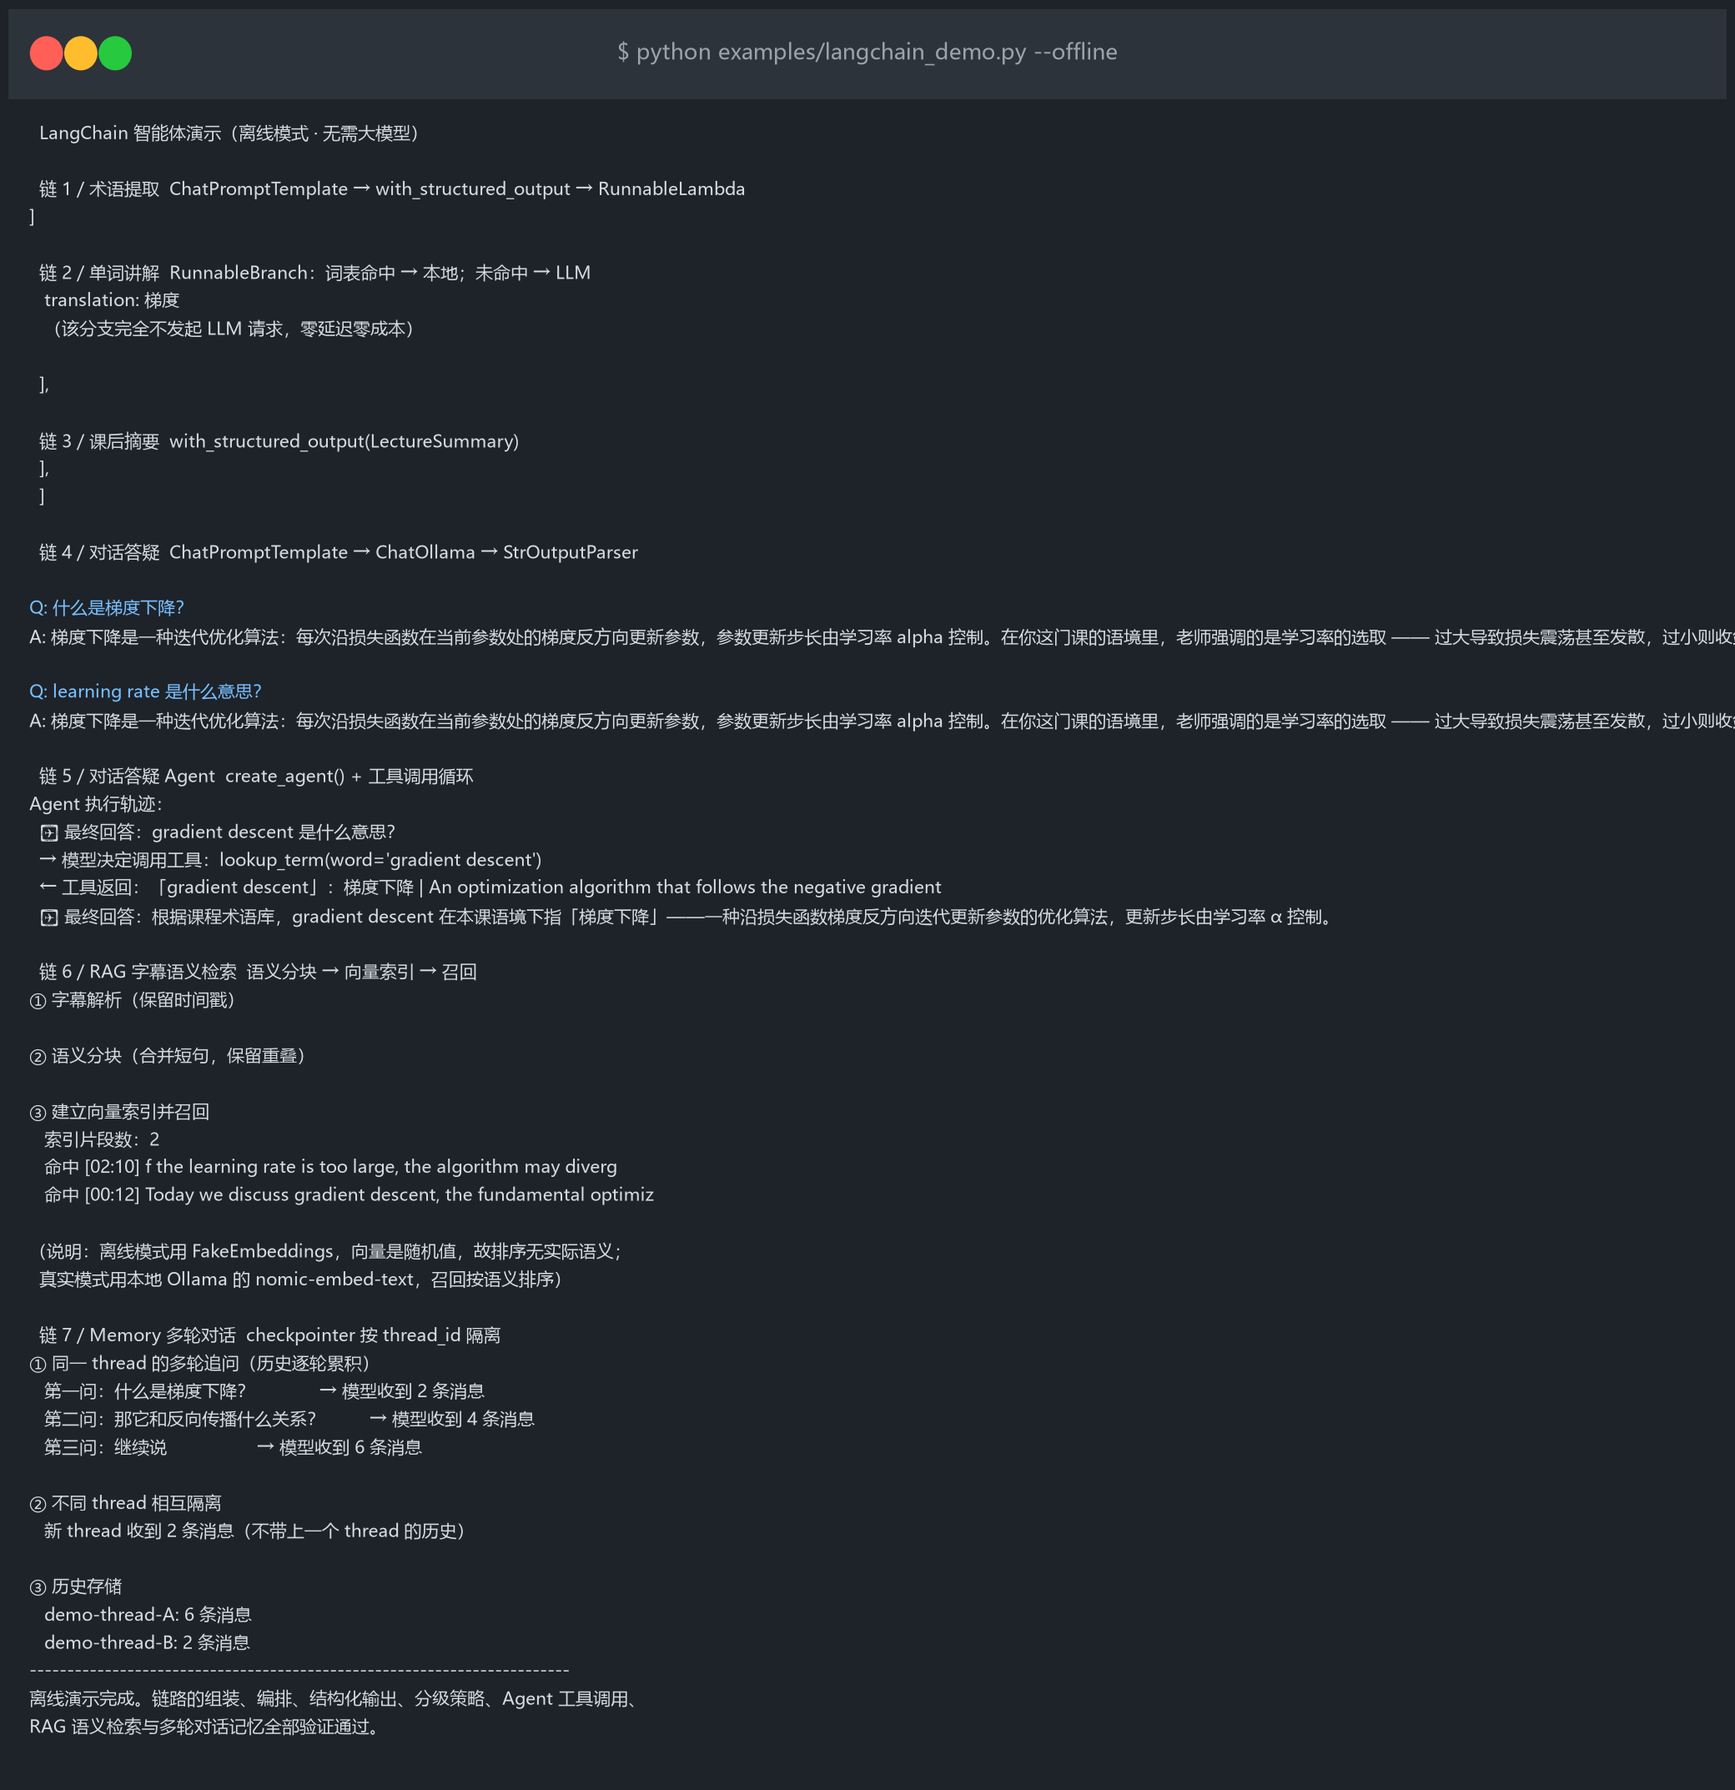
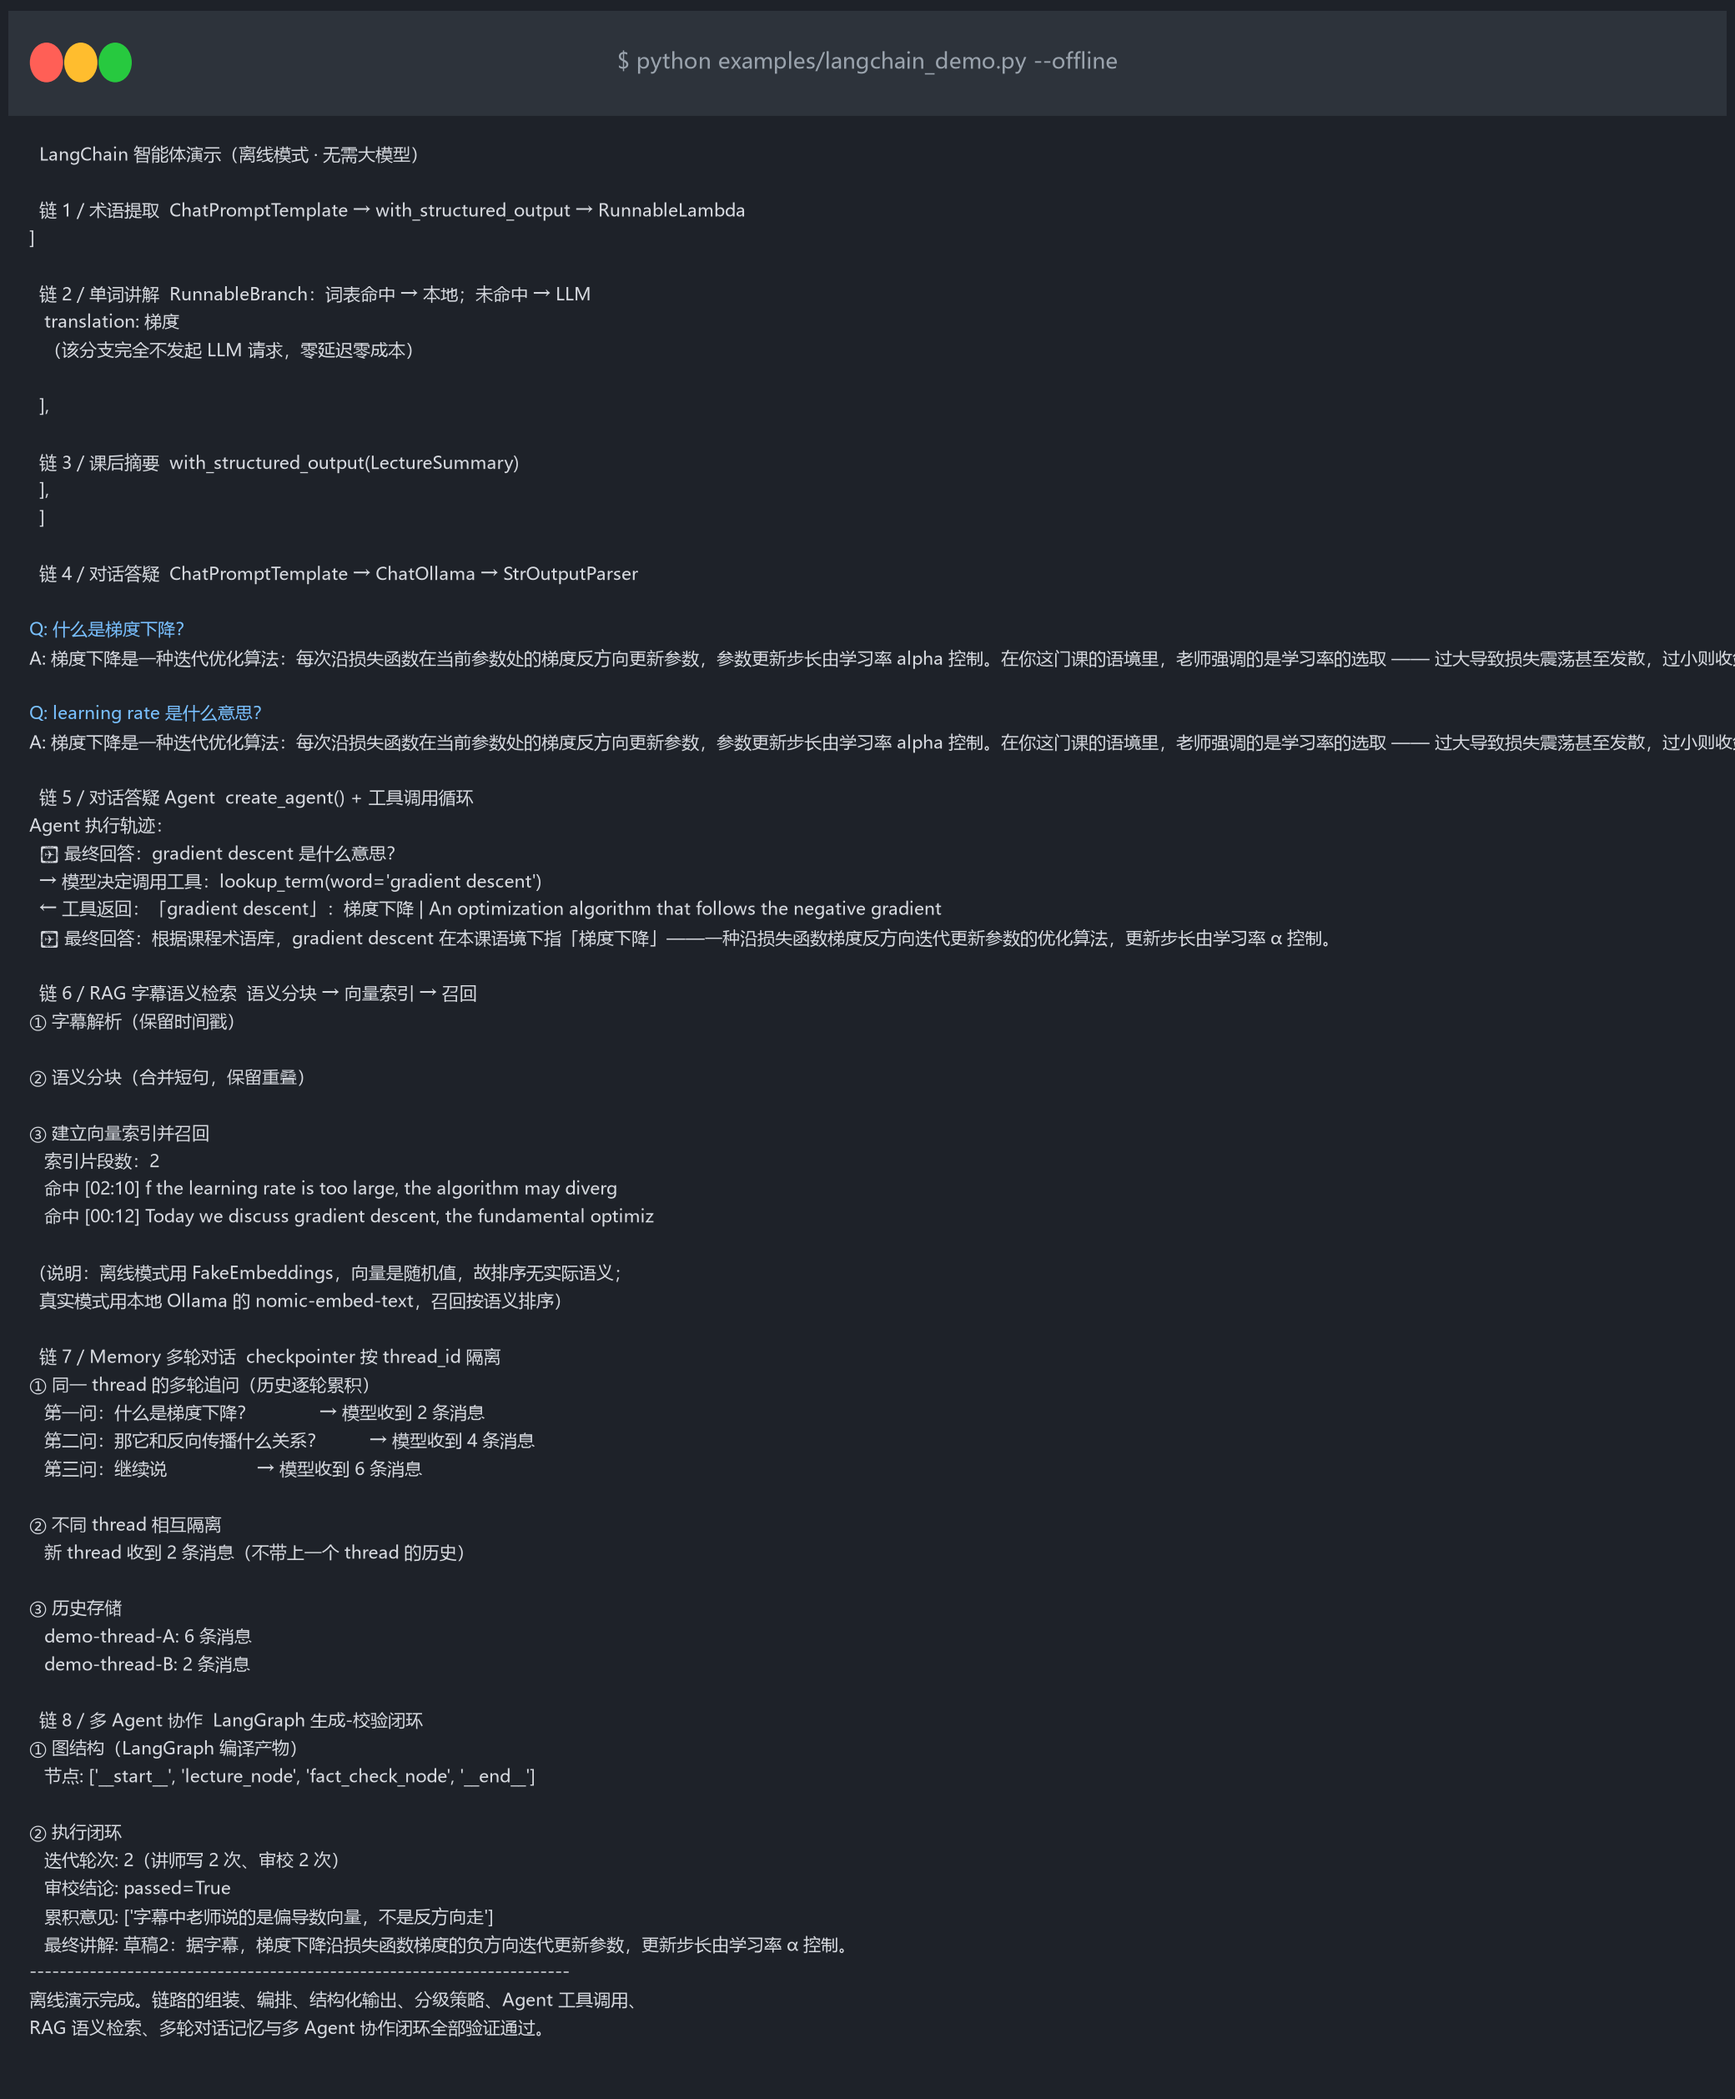
docs: 补多 Agent 协作章节、工作流图、链 8 演示与更新后的验证数据

diff --git a/examples/langchain_demo.py b/examples/langchain_demo.py
@@ -100,6 +100,71 @@ def _demo_rag() -> None:
     print("  真实模式用本地 Ollama 的 nomic-embed-text，召回按语义排序）")
 
 
+
+def _demo_workflow() -> None:
+    """演示多 Agent 协作：讲师生成 → 审校核对 → 不通过则退回重写"""
+    import json
+
+    from langchain_core.language_models.fake_chat_models import FakeListChatModel
+    from langchain_core.messages import AIMessage
+    from langchain_core.outputs import ChatGeneration, ChatResult
+
+    import llm.chains.base as base
+    from llm.chains.workflow import build_review_loop
+
+    # 脚本：讲师写一版 → 审校不通过 → 讲师重写 → 审校通过
+    answers = [
+        "草稿1：梯度下降就是让参数往梯度反方向走。",
+        json.dumps(
+            {"passed": False, "reason": "与字幕不符", "issues": ["字幕中老师说的是偏导数向量，不是反方向走"]},
+            ensure_ascii=False,
+        ),
+        "草稿2：据字幕，梯度下降沿损失函数梯度的负方向迭代更新参数，更新步长由学习率 α 控制。",
+        json.dumps({"passed": True, "reason": "与字幕一致", "issues": []}, ensure_ascii=False),
+    ]
+
+    class Scripted(FakeListChatModel):
+        def bind_tools(self, tools, **kwargs):
+            return self
+
+        def _call(self, *a, **k):
+            return "x"
+
+        def _generate(self, *a, **k):
+            text = answers.pop(0) if answers else "备用"
+            return ChatResult(generations=[ChatGeneration(message=AIMessage(content=text))])
+
+    _orig = base.get_chat_model
+    base.get_chat_model = lambda **kw: Scripted(responses=["x"])
+    try:
+        graph = build_review_loop(max_iterations=3)
+
+        print("① 图结构（LangGraph 编译产物）")
+        nodes = list(graph.get_graph().nodes.keys())
+        print(f"   节点: {nodes}")
+
+        print("\n② 执行闭环")
+        out = graph.invoke(
+            {
+                "word": "gradient descent",
+                "course_name": "深度学习导论",
+                "domain": "机器学习",
+                "context": "[01:23] The update rule is theta = theta minus alpha times gradient of L.",
+                "transcript": "",
+                "draft": "",
+                "verdict": {},
+                "issues": [],
+                "iteration": 0,
+            },
+            {"recursion_limit": 20},
+        )
+        print(f"   迭代轮次: {out.get('iteration')}（讲师写 2 次、审校 2 次）")
+        print(f"   审校结论: passed={out.get('verdict', {}).get('passed')}")
+        print(f"   累积意见: {out.get('issues')}")
+        print(f"   最终讲解: {out.get('draft')}")
+    finally:
+        base.get_chat_model = _orig
+
 def _demo_memory() -> None:
     """演示 Memory：同一 thread 历史累积，不同 thread 相互隔离"""
     from langchain_core.language_models.fake_chat_models import FakeListChatModel
@@ -328,9 +393,13 @@ def run_offline() -> None:
     hr("链 7 / Memory 多轮对话  checkpointer 按 thread_id 隔离")
     _demo_memory()
 
+    # ---- 8. 多 Agent 协作工作流 ----
+    hr("链 8 / 多 Agent 协作  LangGraph 生成-校验闭环")
+    _demo_workflow()
+
     hr()
     print("离线演示完成。链路的组装、编排、结构化输出、分级策略、Agent 工具调用、")
-    print("RAG 语义检索与多轮对话记忆全部验证通过。")
+    print("RAG 语义检索、多轮对话记忆与多 Agent 协作闭环全部验证通过。")
 
 
 def _demo_agent_tool_loop(fake_model) -> None:

diff --git a/README.md b/README.md
@@ -230,6 +230,51 @@ RAG 把这件事交给向量检索：
 
 记忆按 `thread_id` 隔离（建议用「课程ID:学生ID」组合），换课程即换 thread，不会串味。
 
+### 🤝 多 Agent 协作：让「生成」和「校验」分开
+
+前面四条链与答疑 Agent 都是**单 Agent**形态 —— 模型自己调工具、自己给答案。
+但「生成一段讲解」有天然的可靠性问题：讲师 Agent 可能记错、夸大甚至**编造**
+老师没讲过的内容（幻觉）。单 Agent 无法自我校验 ——
+让它自己检查自己写的，等于让它自己给自己打分。
+
+多 Agent 协作的价值在于把两件事**拆给两个不同的 Agent**：
+校验方拥有独立的检索能力（能翻字幕原文）和独立的判断立场。
+
+```
+┌────────────────────────────────────────────────────────────┐
+│                                                            │
+│   ┌───────────────┐      ┌────────────────┐                │
+│   │ lecture_node  │─────►│ fact_check_node│─────┐          │
+│   │  讲师 Agent   │      │   审校 Agent    │     │          │
+│   │  写讲解草稿   │      │ 查字幕原文核对   │     │          │
+│   └───────────────┘      └────────────────┘     │          │
+│           ▲                                     │          │
+│           └───────── 不通过（带意见）───────────┘          │
+│                                     │ 通过                 │
+│                                     ▼                     │
+└────────────────────────────────────────────────────────────┘
+```
+
+![多 Agent 协作工作流](docs/images/multi-agent-workflow.png)
+
+两个 Agent 是**独立实例**（不同 system prompt、不同工具集、不同职责）——
+不是同一个 Agent 换个提示词，而是两个角色互相配合。
+
+审校 Agent 输出结构化结论 `{passed, reason, issues[]}`；
+不通过时意见被累积进 State，退回讲师重写（最多 `max_iterations` 轮）。
+
+#### 为什么用 LangGraph 而不是手写 while 循环
+
+| 能力 | 手写循环 | LangGraph |
+|---|---|---|
+| 状态共享 | 自己维护 dict，容易漏传 | 节点读写同一份 State，自动合并 |
+| 条件分叉 | 手写 if/else 嵌套 | `add_conditional_edges` 声明式 |
+| 防死循环 | 自己数计数 | `recursion_limit` + `max_iterations` 双保险 |
+| 可观测 | 只能 print | 编译出的图可直接可视化 |
+| 加节点 | 改控制流 | 加节点即可，不动分叉逻辑 |
+
+第 2、3、5 点正是手写循环容易写错的地方。
+
 ### 代码结构
 
 ```
@@ -242,6 +287,7 @@ backend/llm/
 │   ├── agent_tools.py 答疑 Agent 的四个工具 + create_agent 组装
 │   ├── rag.py         字幕向量索引与语义检索（RAG）
 │   ├── memory.py      会话持久化（checkpointer，Memory）
+│   ├── workflow.py    多 Agent 协作（LangGraph 生成-校验闭环）
 │   └── verify.py      离线自检脚本（30 项检查，无需大模型）
 ├── client.py         统一 LLM 入口（已切换到 LangChain BaseChatModel）
 ├── extractor.py      术语提取（薄封装）
@@ -250,7 +296,7 @@ backend/llm/
 └── qa.py             对话答疑（薄封装）
 
 examples/langchain_demo.py    链编排演示脚本（离线/真实两种模式）
-tests/test_langchain_chains.py  31 项回归守卫（Agent / RAG / Memory）
+tests/test_langchain_chains.py  38 项回归守卫（Chain / Agent / RAG / Memory / Workflow）
 ```
 
 ### 关键实现要点
@@ -313,7 +359,7 @@ python examples/langchain_demo.py --live
 # 离线自检：30 项检查，覆盖模板/Schema/分支/降级
 cd backend && python -m llm.chains.verify
 
-# 回归守卫：31 项
+# 回归守卫：38 项
 cd backend && python -m pytest tests/test_langchain_chains.py -v
 ```
 

diff --git a/SUBMISSION.md b/SUBMISSION.md
@@ -64,6 +64,7 @@ backend/llm/chains/
 ├── agent_tools.py 答疑 Agent 的四个工具 + create_agent 组装
 ├── rag.py         字幕向量索引与语义检索（RAG）
 ├── memory.py      会话持久化（checkpointer，Memory）
+├── workflow.py    多 Agent 协作（LangGraph 生成-校验闭环）
 └── verify.py      离线自检脚本（30 项检查，无需大模型）
 ```
 
@@ -80,6 +81,7 @@ backend/llm/chains/
 | **Agent（自主决策）** | 对话答疑 | 模型运行时自主决定调用哪个工具、调几次 |
 | **RAG（检索增强）** | 字幕语义检索 | 字幕→语义分块→向量索引→按语义召回，突破固定窗口限制 |
 | **Memory（会话记忆）** | 多轮对话 | checkpointer 按 thread_id 隔离，历史逐轮累积 |
+| **多 Agent 协作** | 讲解生成-校验闭环 | LangGraph StateGraph：讲师 Agent 写 → 审校 Agent 查 → 不通过退回重写 |
 
 Agent 的三个工具：
 
@@ -116,6 +118,27 @@ Agent 异常时自动回退链模式，答疑功能不中断。
 实现抽出 `CheckpointStore` 抽象，换 Redis/SQLite 只需实现同一接口。
 记忆按 `thread_id` 隔离（建议「课程ID:学生ID」），换课程不串味。
 
+### 多 Agent 协作（生成-校验闭环）
+
+单 Agent 无法自我校验 —— 让它检查自己写的，等于让它自己给自己打分。
+多 Agent 协作把「生成」与「校验」拆给两个**独立实例**：
+
+```
+lecture_node ──► fact_check_node ──► 路由
+（讲师：写讲解）    （审校：查原文核对）   ├─ 通过 → END
+                                        └─ 不通过（带意见）─┘
+```
+
+| 维度 | 手写 while 循环 | LangGraph StateGraph |
+|---|---|---|
+| 状态共享 | 自己维护 dict，容易漏传 | 节点读写同一份 State，自动合并 |
+| 条件分叉 | 手写 if/else 嵌套 | `add_conditional_edges` 声明式 |
+| 防死循环 | 自己数计数 | `recursion_limit` + `max_iterations` 双保险 |
+| 可观测 | 只能 print | 编译出的图可直接可视化 |
+| 加节点 | 改控制流 | 加节点即可，不动分叉逻辑 |
+
+实现：`backend/llm/chains/workflow.py`（`LearningLoop` / `build_review_loop`）。
+
 ---
 
 ## 四、一键验证
@@ -147,9 +170,9 @@ ollama pull qwen2.5:7b
 
 | 项目 | 结果 |
 |---|---|
-| 全量测试套件 | **478 passed** / 9 skipped（改造前 447 passed，无回归） |
+| 全量测试套件 | **485 passed** / 9 skipped（改造前 447 passed，无回归） |
 | LangChain 链离线自检 | **30 / 30** 通过 |
-| LangChain 专项回归守卫 | **31 / 31** 通过（Agent / RAG / Memory） |
+| LangChain 专项回归守卫 | **38 / 38** 通过（Chain / Agent / RAG / Memory / Workflow） |
 | 链编排演示 | 四条链全部正确输出 |
 
 ---
